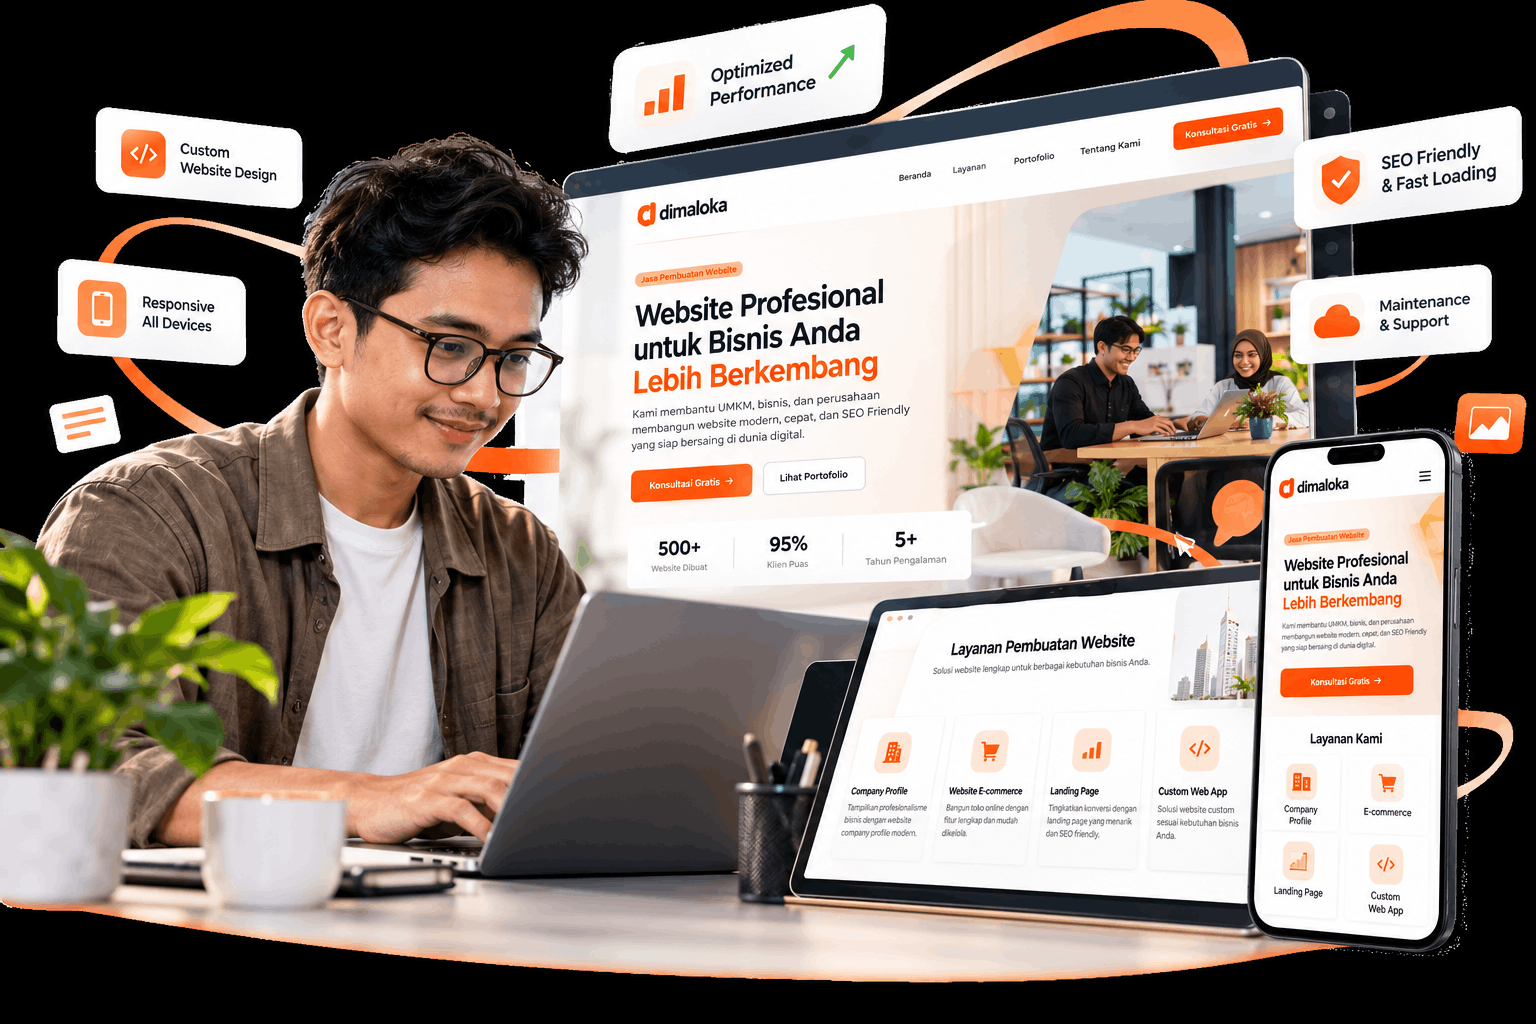
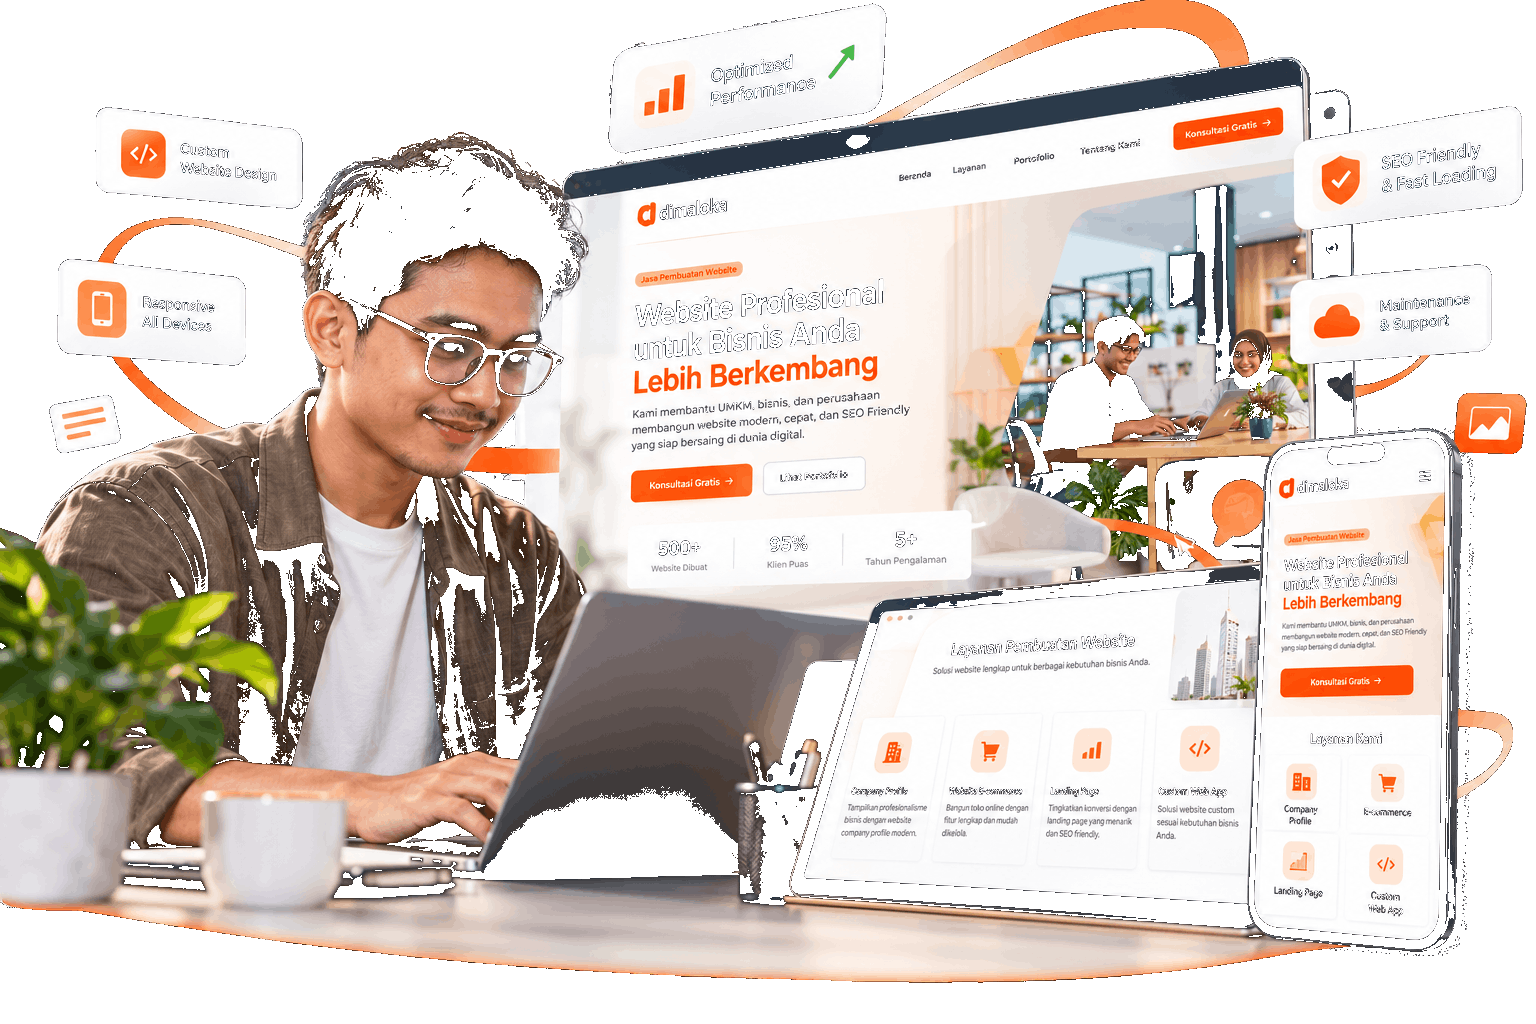
Make professional section image transparent
Strip solid black background to alpha (32.7% of pixels), drop rounded corners and object-cover so the section background shows through.

diff --git a/src/components/professional-section.tsx b/src/components/professional-section.tsx
@@ -12,16 +12,15 @@ export function ProfessionalSection() {
   return (
     <section id="profesional" className="border-b border-border bg-secondary" aria-labelledby="profesional-title">
       <div className="mx-auto grid max-w-7xl items-center gap-12 px-5 py-16 md:px-8 md:py-20 lg:grid-cols-2 lg:gap-16">
-        {/* Visual */}
+        {/* Visual — PNG transparan, background mengikuti warna section */}
         <figure className="relative order-last lg:order-first">
-          <div aria-hidden="true" className="absolute inset-0 -z-10 scale-90 rounded-full bg-primary/15 blur-3xl" />
           <img
             src={illustration}
             width={1536}
             height={1024}
             alt="Ilustrasi jasa pembuatan website modern Dimaloka"
             loading="lazy"
-            className="w-full rounded-2xl object-cover"
+            className="w-full"
           />
         </figure>
 
